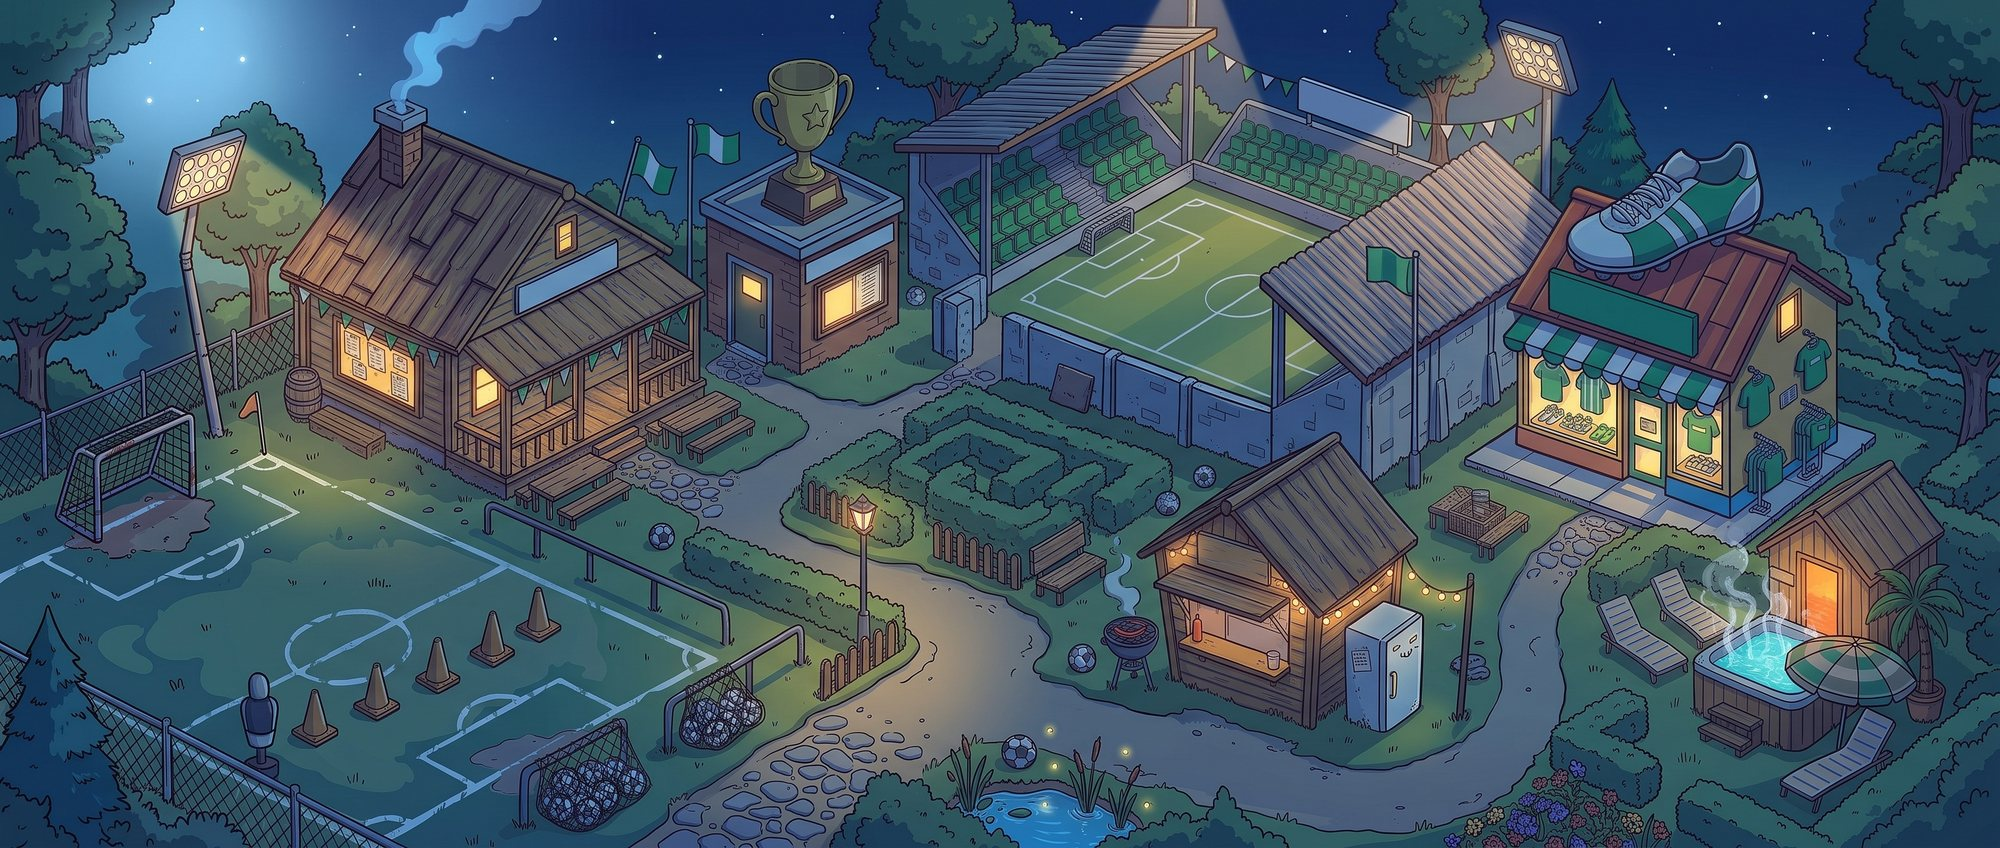
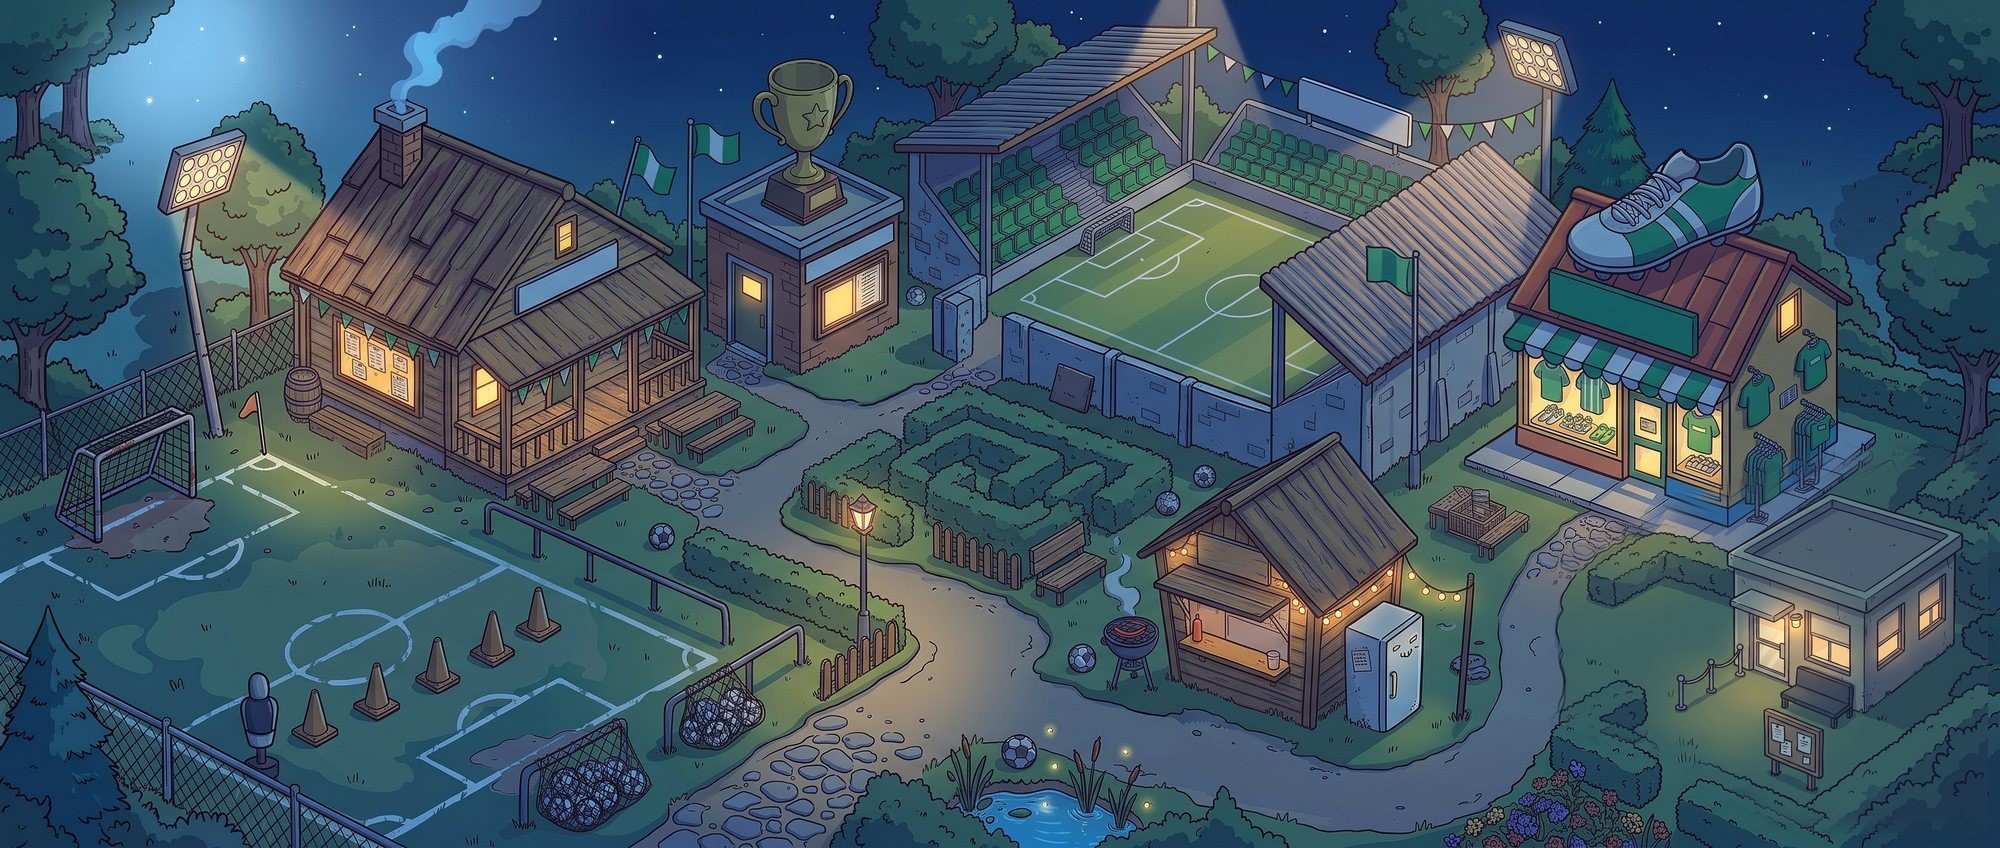
Arbeitsamt: neue Karte + Sachbearbeiterin

Changed region(s): [[0.775, 0.5212, 0.992, 0.9811]]

diff --git a/index.html b/index.html
@@ -1526,6 +1526,7 @@ button.mt-pl[disabled] { cursor: default; }
 .cm-set { display: grid; gap: 6px; font-size: 13px; } .cm-set label { display: flex; align-items: center; gap: 6px; }
 .cm-set input[type=number] { width: 64px; padding: 3px 6px; border-radius: 6px; border: 2px solid #2A1209; font: inherit; }
 #vrInvite { position: relative; }
+#arbeit:not(.ab-rest) .ab-bg { background-image: url(img/bg/arbeitsamt.jpg); background-position: center 38%; filter: none; }
 
 body > .bar { display: none !important; }
 html, body { position: fixed; inset: 0; width: 100%; height: 100%; margin: 0; overflow: hidden; overscroll-behavior: none; background: #000 !important; }
@@ -6738,7 +6739,7 @@ function blinkTick() {
   tog(document.getElementById('gMenu'), (jobDone || train) && document.getElementById('menu').hidden);
   tog(document.getElementById('sdbChat'), chat);
   document.querySelectorAll('#mapSpots .map-lbl.pin').forEach(l => { const b = MAP.b[+l.dataset.i]; if (!b) return;
-    tog(l, (b.k === 'verein' && jobDone && !jobRest) || (b.k === 'spa' && jobRest) || (b.k === 'training' && train)); });
+    tog(l, (b.k === 'verein' && jobDone && !jobRest) || (b.k === 'spa' && jobDone) || (b.k === 'training' && train)); });
   const tile = n => document.querySelector(`#menu .mn-tile[aria-label="${n}"]`);
   tog(tile('Nebenjob'), jobDone && !jobRest); tog(tile('Wellness'), jobRest); tog(tile('Trainingsplatz'), train);
 }
@@ -6848,13 +6849,13 @@ blinkTick = (o => function () {
   const menu = document.getElementById('gMenu');
   if (menu && document.getElementById('menu').hidden && (wheel || daily || quest)) menu.classList.add('blink');
 })(blinkTick);
-// Wellness/Spa nicht mehr auf der Karte und im Menü (Erholen bleibt im Nebenjob-Fenster)
-mapRender = (o => function () {
-  const r = o.apply(this, arguments);
-  MAP.b.forEach((b, i) => { if (b.k === 'spa') document.querySelectorAll(`#mapSpots [data-i="${i}"]`).forEach(e => e.remove()); });
-  return r;
-})(mapRender);
-(() => { const t = document.querySelector('#menu .mn-tile[aria-label="Wellness"]'); if (t) t.style.display = 'none'; try { mapRender(); } catch (e) {} })();
+// Wellness/Spa nicht mehr im Menü (Erholen bleibt im Nebenjob-Fenster). 21. Okt.: auf der Karte steht dort jetzt das ARBEITSAMT → Nebenjob
+(() => {
+  const sp = MAP.b.find(b => b.k === 'spa');
+  if (sp) { sp.n = 'Arbeitsamt'; sp.spot = [1720, 480, 270, 230]; sp.lbl = [1850, 470]; sp.go = () => openArbeit('work'); }
+  MAP_IC.spa = 'ic_nebenjob';
+  const t = document.querySelector('#menu .mn-tile[aria-label="Wellness"]'); if (t) t.style.display = 'none'; try { mapRender(); } catch (e) {}
+})();
 
 // ================== 21. Okt.: SOUND (Platzhalter-Töne aus Web Audio) ==================
 // Busse: Gesamt (SET.vol) → Effekte (SET.sfx) / Umgebung (SET.amb, Publikum). Start erst nach dem ersten Antippen (iPhone-Regel).
